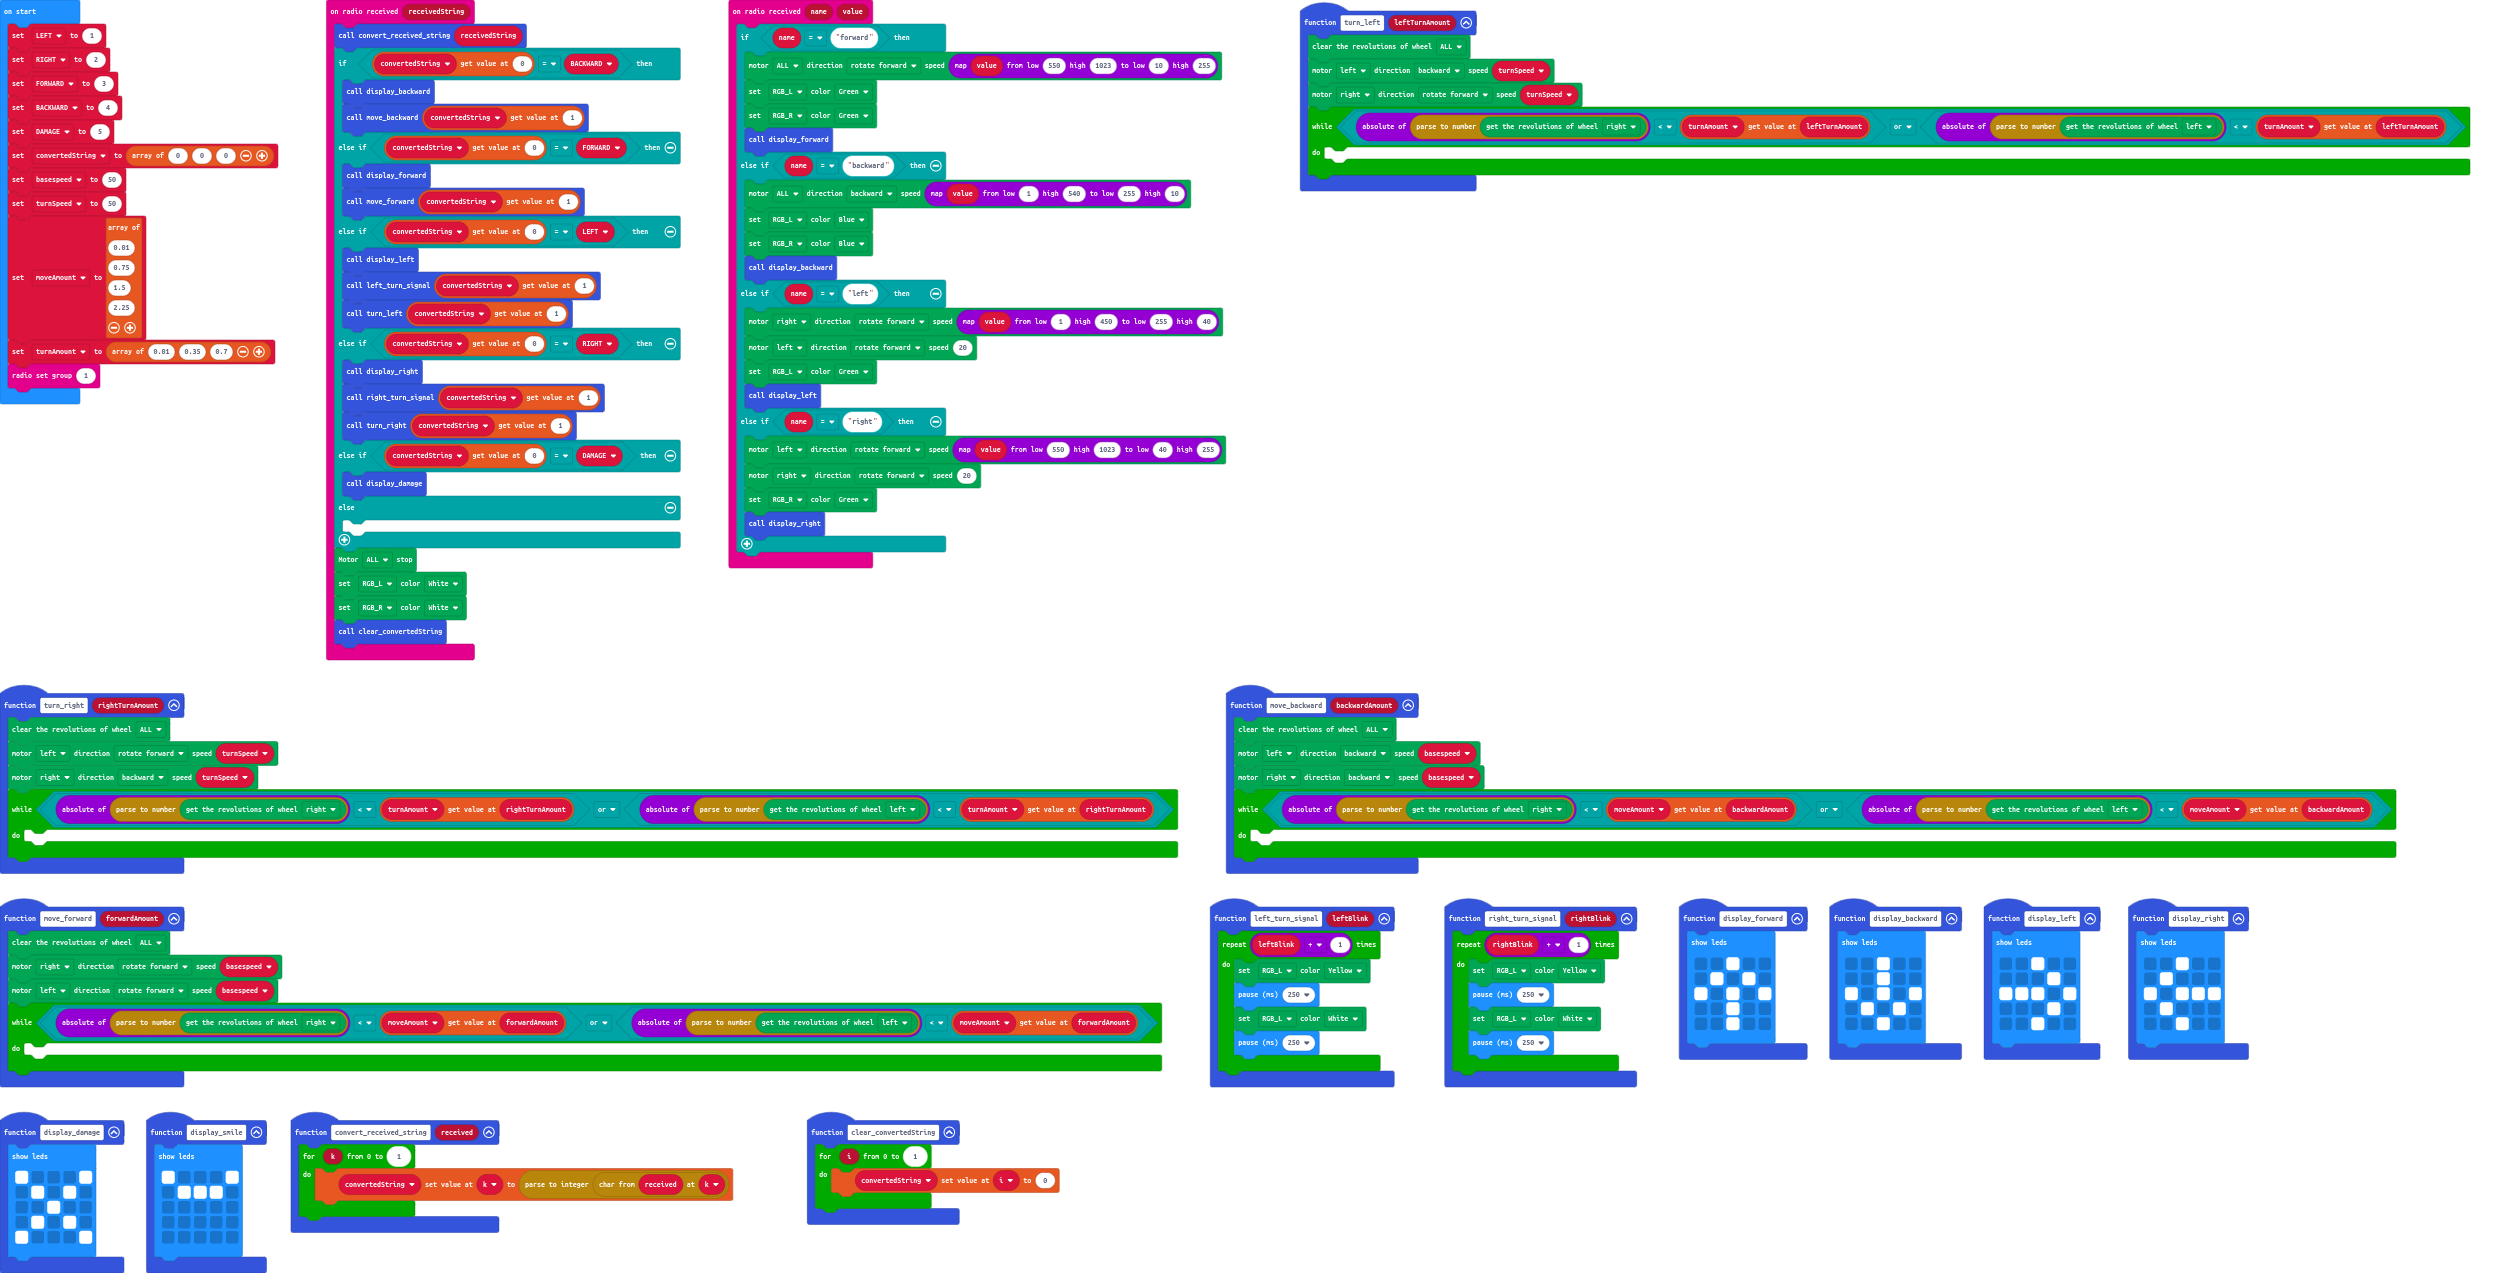
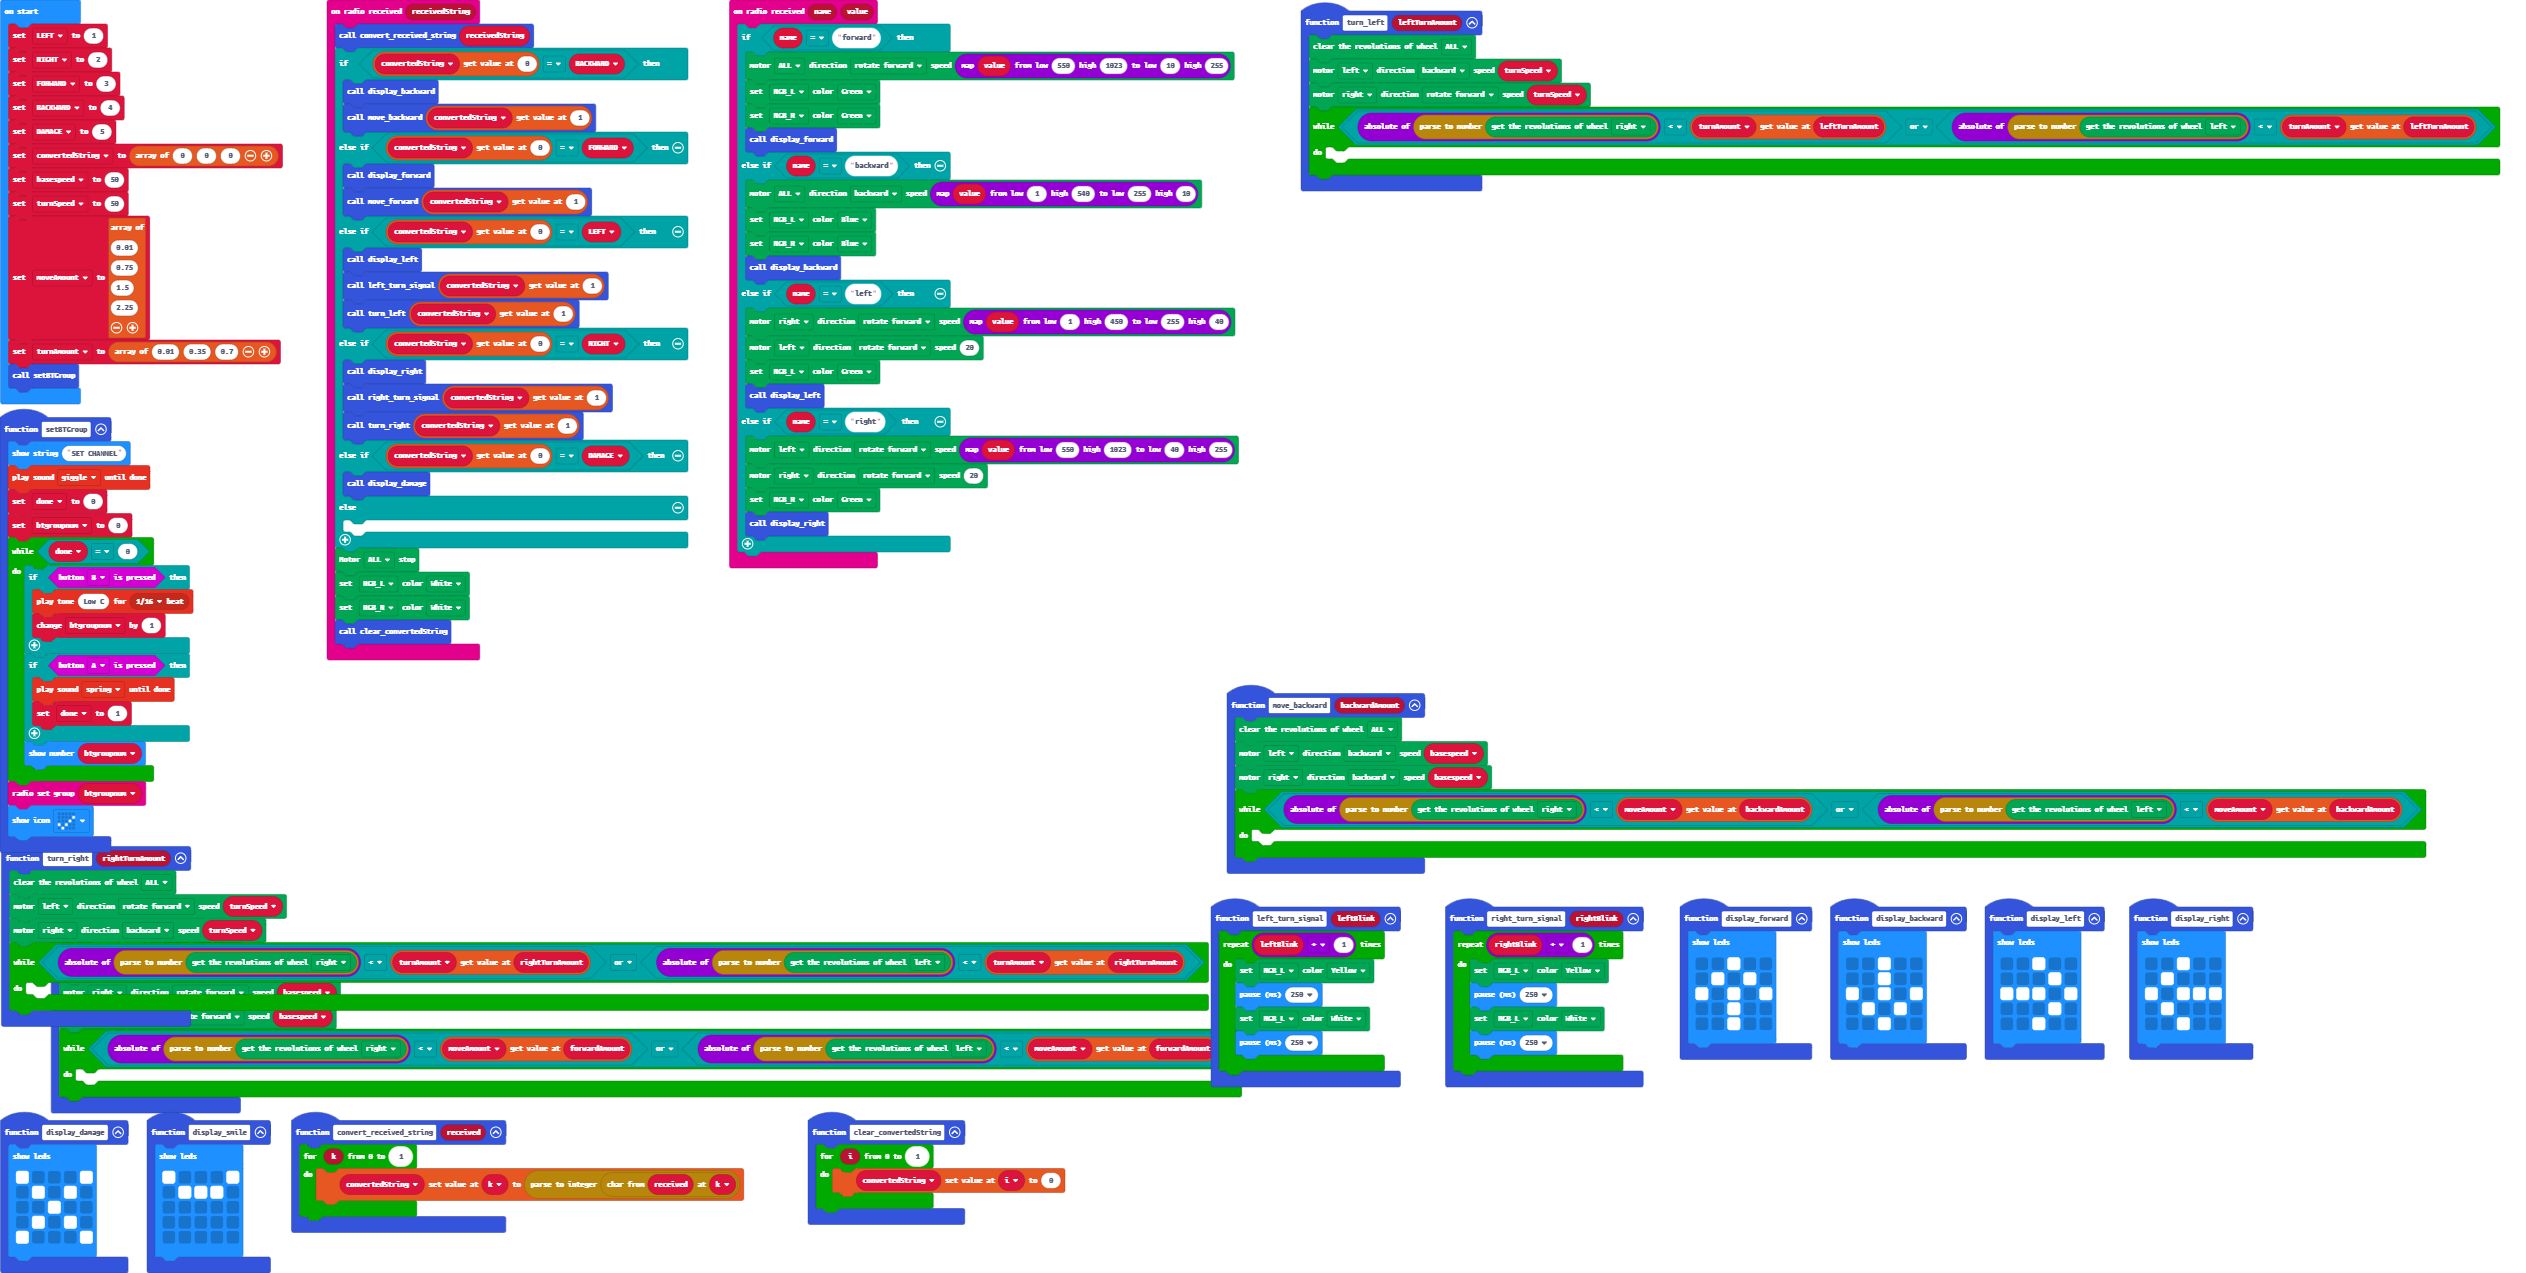
set BT Channel at start

diff --git a/main.ts b/main.ts
@@ -45,6 +45,25 @@ function right_turn_signal (rightBlink: number) {
         basic.pause(250)
     }
 }
+function setBTGroup () {
+    basic.showString("SET CHANNEL")
+    soundExpression.giggle.playUntilDone()
+    done = 0
+    btgroupnum = 0
+    while (done == 0) {
+        if (input.buttonIsPressed(Button.B)) {
+            music.playTone(131, music.beat(BeatFraction.Sixteenth))
+            btgroupnum += 1
+        }
+        if (input.buttonIsPressed(Button.A)) {
+            soundExpression.spring.playUntilDone()
+            done = 1
+        }
+        basic.showNumber(btgroupnum)
+    }
+    radio.setGroup(btgroupnum)
+    basic.showIcon(IconNames.Yes)
+}
 function display_damage () {
     basic.showLeds(`
         # . . . #
@@ -159,6 +178,8 @@ function turn_right (rightTurnAmount: number) {
     	
     }
 }
+let btgroupnum = 0
+let done = 0
 let turnAmount: number[] = []
 let moveAmount: number[] = []
 let turnSpeed = 0
@@ -184,4 +205,4 @@ moveAmount = [
 2.25
 ]
 turnAmount = [0.01, 0.35, 0.7]
-radio.setGroup(1)
+setBTGroup()

diff --git a/main.py b/main.py
@@ -1,6 +1,93 @@
+def move_backward(backwardAmount: number):
+    DFRobotMaqueenPlus.clear_distance(Motors.ALL)
+    DFRobotMaqueenPlus.motot_run(Motors.M1, Dir.CCW, basespeed)
+    DFRobotMaqueenPlus.motot_run(Motors.M2, Dir.CCW, basespeed)
+    while abs(parse_float(DFRobotMaqueenPlus.reade_distance(Motors1.M2))) < moveAmount[backwardAmount] or abs(parse_float(DFRobotMaqueenPlus.reade_distance(Motors1.M1))) < moveAmount[backwardAmount]:
+        pass
+def display_backward():
+    basic.show_leds("""
+        . . # . .
+                . . # . .
+                # . # . #
+                . # . # .
+                . . # . .
+    """)
+def display_smile():
+    basic.show_leds("""
+        # . . . #
+                . # # # .
+                . . . . .
+                . . . . .
+                . . . . .
+    """)
+def convert_received_string(received: str):
+    for k in range(2):
+        convertedString[k] = int(received.char_at(k))
+def left_turn_signal(leftBlink: number):
+    for index in range(leftBlink + 1):
+        DFRobotMaqueenPlus.set_rgb_light(RGBLight.RGBL, Color.YELLOW)
+        basic.pause(250)
+        DFRobotMaqueenPlus.set_rgb_light(RGBLight.RGBL, Color.WHITH)
+        basic.pause(250)
+def right_turn_signal(rightBlink: number):
+    for index2 in range(rightBlink + 1):
+        DFRobotMaqueenPlus.set_rgb_light(RGBLight.RGBL, Color.YELLOW)
+        basic.pause(250)
+        DFRobotMaqueenPlus.set_rgb_light(RGBLight.RGBL, Color.WHITH)
+        basic.pause(250)
+def setBTGroup():
+    global done, btgroupnum
+    done = 0
+    btgroupnum = 0
+    while done == 0:
+        if input.button_is_pressed(Button.B):
+            btgroupnum += 1
+        if input.button_is_pressed(Button.A):
+            done = 1
+        basic.show_number(btgroupnum)
+    radio.set_group(btgroupnum)
+def display_damage():
+    basic.show_leds("""
+        # . . . #
+                . # . # .
+                . . # . .
+                . # . # .
+                # . . . #
+    """)
+def display_forward():
+    basic.show_leds("""
+        . . # . .
+                . # . # .
+                # . # . #
+                . . # . .
+                . . # . .
+    """)
+def display_left():
+    basic.show_leds("""
+        . . # . .
+                . . . # .
+                # # # . #
+                . . . # .
+                . . # . .
+    """)
+def turn_left(leftTurnAmount: number):
+    DFRobotMaqueenPlus.clear_distance(Motors.ALL)
+    DFRobotMaqueenPlus.motot_run(Motors.M1, Dir.CCW, turnSpeed)
+    DFRobotMaqueenPlus.motot_run(Motors.M2, Dir.CW, turnSpeed)
+    while abs(parse_float(DFRobotMaqueenPlus.reade_distance(Motors1.M2))) < turnAmount[leftTurnAmount] or abs(parse_float(DFRobotMaqueenPlus.reade_distance(Motors1.M1))) < turnAmount[leftTurnAmount]:
+        pass
+def display_right():
+    basic.show_leds("""
+        . . # . .
+                . # . . .
+                # . # # #
+                . # . . .
+                . . # . .
+    """)
+
 def on_received_string(receivedString):
     convert_received_string(receivedString)
-    if convertedString[0] == BACKWARD :
+    if convertedString[0] == BACKWARD:
         display_backward()
         move_backward(convertedString[1])
     elif convertedString[0] == FORWARD:
@@ -23,6 +110,10 @@ def on_received_string(receivedString):
     DFRobotMaqueenPlus.set_rgb_light(RGBLight.RGBR, Color.WHITH)
     clear_convertedString()
 radio.on_received_string(on_received_string)
+
+def clear_convertedString():
+    for i in range(2):
+        convertedString[i] = 0
 
 def on_received_value(name, value):
     if name == "forward":
@@ -47,127 +138,38 @@ def on_received_value(name, value):
         display_right()
 radio.on_received_value(on_received_value)
 
-def turn_left(leftTurnAmount: number):
-    DFRobotMaqueenPlus.clear_distance(Motors.ALL)
-    DFRobotMaqueenPlus.motot_run(Motors.M1, Dir.CCW, turnSpeed)
-    DFRobotMaqueenPlus.motot_run(Motors.M2, Dir.CW, turnSpeed)
-    while abs(parse_float(DFRobotMaqueenPlus.reade_distance(Motors1.M2))) < turnAmount[leftTurnAmount] or abs(parse_float(DFRobotMaqueenPlus.reade_distance(Motors1.M1))) < turnAmount[leftTurnAmount]:
-        pass
-
-def turn_right(rightTurnAmount: number):
-    DFRobotMaqueenPlus.clear_distance(Motors.ALL)
-    DFRobotMaqueenPlus.motot_run(Motors.M1, Dir.CW, turnSpeed)
-    DFRobotMaqueenPlus.motot_run(Motors.M2, Dir.CCW, turnSpeed)
-    while abs(parse_float(DFRobotMaqueenPlus.reade_distance(Motors1.M2))) < turnAmount[rightTurnAmount] or abs(parse_float(DFRobotMaqueenPlus.reade_distance(Motors1.M1))) < turnAmount[rightTurnAmount]:
-        pass
-
-def move_backward(backwardAmount: number):
-    DFRobotMaqueenPlus.clear_distance(Motors.ALL)
-    DFRobotMaqueenPlus.motot_run(Motors.M1, Dir.CCW, basespeed)
-    DFRobotMaqueenPlus.motot_run(Motors.M2, Dir.CCW, basespeed)
-    while abs(parse_float(DFRobotMaqueenPlus.reade_distance(Motors1.M2))) < moveAmount[backwardAmount] or abs(parse_float(DFRobotMaqueenPlus.reade_distance(Motors1.M1))) < moveAmount[backwardAmount]:
-        pass
-
 def move_forward(forwardAmount: number):
     DFRobotMaqueenPlus.clear_distance(Motors.ALL)
     DFRobotMaqueenPlus.motot_run(Motors.M2, Dir.CW, basespeed)
     DFRobotMaqueenPlus.motot_run(Motors.M1, Dir.CW, basespeed)
     while abs(parse_float(DFRobotMaqueenPlus.reade_distance(Motors1.M2))) < moveAmount[forwardAmount] or abs(parse_float(DFRobotMaqueenPlus.reade_distance(Motors1.M1))) < moveAmount[forwardAmount]:
         pass
-
-def left_turn_signal(leftBlink: number):
-    for b in range(leftBlink + 1):
-        DFRobotMaqueenPlus.set_rgb_light(RGBLight.RGBL, Color.YELLOW)
-        basic.pause(250)
-        DFRobotMaqueenPlus.set_rgb_light(RGBLight.RGBL, Color.WHITH)
-        basic.pause(250)
-
-def right_turn_signal(rightBlink: number):
-    for a in range(rightBlink+1):
-        DFRobotMaqueenPlus.set_rgb_light(RGBLight.RGBL, Color.YELLOW)
-        basic.pause(250)
-        DFRobotMaqueenPlus.set_rgb_light(RGBLight.RGBL, Color.WHITH)
-        basic.pause(250)     
-
-def display_forward():
-    basic.show_leds("""
-        . . # . .
-        . # . # .
-        # . # . #
-        . . # . .
-        . . # . .
-    """)
-
-def display_backward():
-    basic.show_leds("""
-        . . # . .
-        . . # . .
-        # . # . #
-        . # . # .
-        . . # . .
-    """)
-
-def display_left():
-    basic.show_leds("""
-        . . # . .
-        . . . # .
-        # # # . #
-        . . . # .
-        . . # . .
-    """)
-
-def display_right():
-    basic.show_leds("""
-        . . # . .
-        . # . . .
-        # . # # #
-        . # . . .
-        . . # . .
-    """)
-
-def display_damage():
-    basic.show_leds("""
-        # . . . #
-        . # . # .
-        . . # . .
-        . # . # .
-        # . . . #
-    """)     
-
-def display_smile():
-    basic.show_leds("""
-        # . . . #
-        . # # # .
-        . . . . .
-        . . . . .
-        . . . . .
-    """)
-
-def convert_received_string(received: str):
-    for k in range(2):
-        convertedString[k] = int(received.char_at(k))
-
-def clear_convertedString():
-    for i in range(2):
-        convertedString[i] = 0
-
-basespeed = 0
+def turn_right(rightTurnAmount: number):
+    DFRobotMaqueenPlus.clear_distance(Motors.ALL)
+    DFRobotMaqueenPlus.motot_run(Motors.M1, Dir.CW, turnSpeed)
+    DFRobotMaqueenPlus.motot_run(Motors.M2, Dir.CCW, turnSpeed)
+    while abs(parse_float(DFRobotMaqueenPlus.reade_distance(Motors1.M2))) < turnAmount[rightTurnAmount] or abs(parse_float(DFRobotMaqueenPlus.reade_distance(Motors1.M1))) < turnAmount[rightTurnAmount]:
+        pass
+btgroupnum = 0
+done = 0
+turnAmount: List[number] = []
+moveAmount: List[number] = []
 turnSpeed = 0
-LEFT = 0
+basespeed = 0
+convertedString: List[number] = []
 DAMAGE = 0
 BACKWARD = 0
 FORWARD = 0
 RIGHT = 0
-moveAmount: List[number] = []
-turnAmount: List[number]  = []
+LEFT = 0
 LEFT = 1
 RIGHT = 2
 FORWARD = 3
 BACKWARD = 4
 DAMAGE = 5
-convertedString = [0,0,0]
+convertedString = [0, 0, 0]
 basespeed = 50
 turnSpeed = 50
-moveAmount = [0.01, 0.75, 1.50, 2.25]
-turnAmount = [0.01, .35, .70]
-radio.set_group(1)
+moveAmount = [0.01, 0.75, 1.5, 2.25]
+turnAmount = [0.01, 0.35, 0.7]
+setBTGroup()
